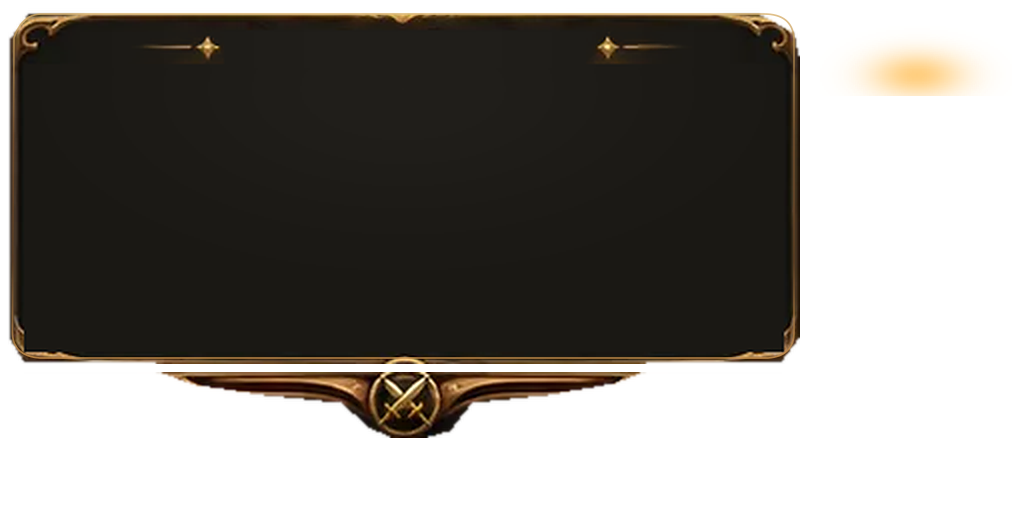
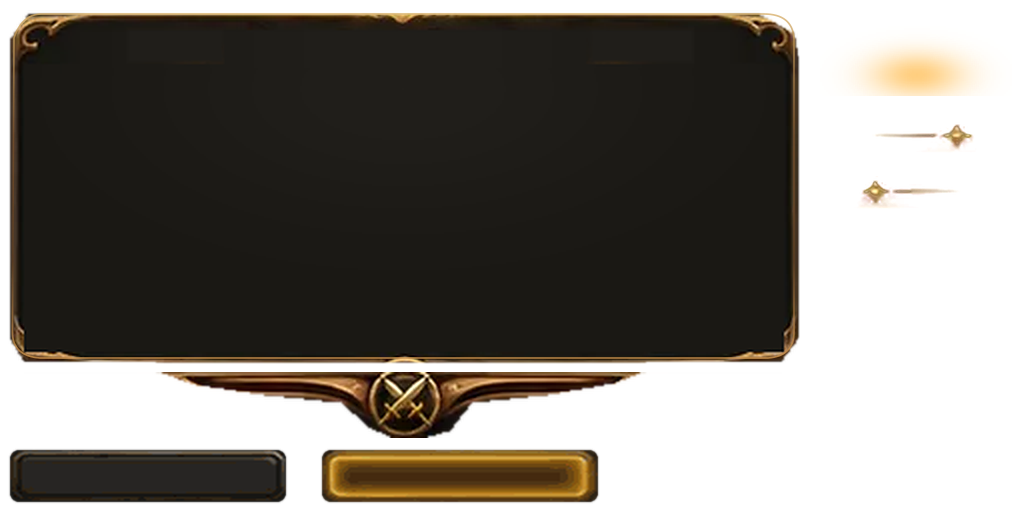
Polish notification ornament alpha, rim and button spacing

diff --git a/tools/community/test_notifications.py b/tools/community/test_notifications.py
@@ -28,6 +28,10 @@ class NotificationTests(unittest.TestCase):
         u=read("UI/Notifications.lua")
         self.assertIn('8,8,792,356',u)
         self.assertIn('8,372,792,66',u)
-        self.assertIn('tx:SetTexture(HUD_ART)',u)
-        self.assertIn('local ay=gold and 64 or 100',u)
+        self.assertIn('tx:SetTexture(ART)',u)
+        self.assertIn('local ax=gold and 320 or 8',u)
+        self.assertIn('32,14,88,20,820,112,192,44',u)
+        self.assertIn('290,14,88,20,820,168,192,44',u)
+        self.assertIn('118,12,174,24',u)
+        self.assertIn('448.5/512,503.5/512',u)
         self.assertNotIn('218.25/256',u)

diff --git a/docs/ASSET_PROVENANCE.md b/docs/ASSET_PROVENANCE.md
@@ -57,3 +57,7 @@ Media/Skin/NotificationArt.png (512x256 RGBA, Git blob 33bd44d51d26f194bbb05fe31
 
 ### Notification artwork refinement (2026-11-24)
 Supersedes the initial notification atlas described above: NotificationArt.png is now 1024x512 RGBA, blob f086464fc0edcd5e75d4af2d546fe194f7c1a047. Preserves extracted source ornaments and connector; header motif backgrounds reblended, pale rim chips toned down, continuous antialiased outline and padded texture cells. Removes original label-erased button crops entirely: notification buttons now use existing DuelHUDArt.png normal/selected regions. Existing DR emblem retained, slightly smaller, close affordance inset from rim. No new audio or changes to audio, Motion timing, event logic, notification positions, update evidence or persistence. Screenshot of initial preview identified patchy button interiors and border. Visual verification still requires live WoW.
+
+
+### Notification edge and spacing polish (2026-11-24)
+NotificationArt.png remains 1024x512 RGBA; new blob 0f9a4dcb8be7193e0f999da9affaba97e1f09a32. The second live screenshot revealed residual rectangular backgrounds under the header motifs and a hard cutoff around the selected button. Separate source-derived alpha ornaments from the shell, blend the original motif background back to the body gradient, feather the outer shell pixel edge, and derive two independent alpha-padded button cells from the already packaged DuelHUDArt.png (c9a462c1fb549e757844b6dce1f27b3ffb60923d). Inset the close affordance, lower and center the header, and give body/button labels additional safe spacing. No HUD texture changes. Sound, animation timing, notification queue, and update detection untouched. Live visual check still required.

diff --git a/docs/NOTIFICATIONS.md b/docs/NOTIFICATIONS.md
@@ -11,3 +11,5 @@ Reference: Polestar Core/Update.lua, UI/UpdateCard.lua, UI/ClassToast.lua and UI
 
 
 Visual refinement: 2x padded atlas, clean header ornament blending, antialiased rim and existing HUD button texture regions. Preserve notification timing/audio/queue and original layout. Previous notification mock passed in CI run 45467802650; full CI still failed in unrelated mixed-history preview. New texture fidelity requires screenshot comparison in-game.
+
+Minor visual follow-up: separate alpha-only header ornaments, center/lower header text, smooth outer rim, alpha-padded normal and gold button textures derived from HUD artwork, inset close and buttons. No behavior, sound, timing, or persistence edits.
